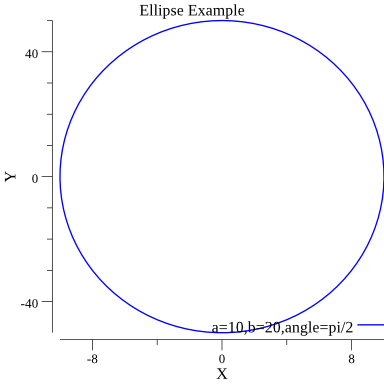
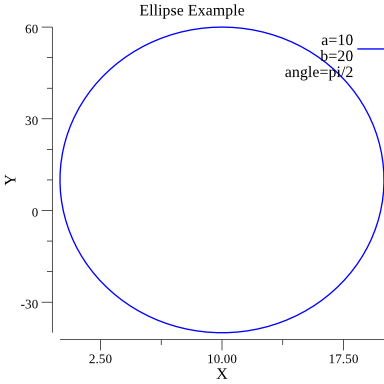
Made docs more explicit. Added Ellipse origin.

diff --git a/ellipse/ellipse.go b/ellipse/ellipse.go
@@ -13,37 +13,37 @@ import (
 )
 
 // Ellipse is 2D ellipse
+//
 // For more information see: https://en.wikipedia.org/wiki/Ellipse
 type Ellipse struct {
+	x     float64
+	y     float64
 	a     float64
 	b     float64
 	angle float64
-	xmean float64
-	ymean float64
 }
 
-// New creates new Ellipse with given distance of major and minor vertices from the origin rotated
-// around the orgin by given angle in radians. Origin in this case is meant [0,0].
-// It returns error if either of the vertex distances (a or b) are not positive.
-// Note, major/minor axis lengths are defined as distance of the ellipse vertices on major/minor axis.
-// For more information please see: https://en.wikipedia.org/wiki/Ellipse#Ellipse_in_Cartesian_coordinates
-// New, however, accepts distance of major/minor vertices from the Ellipse *center* a.k.a. semi-major/minor axis.
+// New creates new Ellipse with origin [x,y], length of major/minor axis (mx,my) and rotation angle radians.
+// It returns error if either of the axis (a or b).
+// Note: the lengths of major/minor axis are defined as a distance between the ellipse vertices on major/minor axis.
+// however, this function accepts semi-major/minor lengths from the Ellipse origin.
+//
 // For more information please see: https://en.wikipedia.org/wiki/Semi-major_and_semi-minor_axes
-func New(a, b, angle float64) (*Ellipse, error) {
+func New(x, y, a, b, angle float64) (*Ellipse, error) {
 	if a <= 0 || b <= 0 {
 		return nil, fmt.Errorf("Invald ellipse axis: (a: %.2f, b: %.2f)", a, b)
 	}
 
-	return &Ellipse{a: a, b: b, angle: angle, xmean: 0.0, ymean: 0.0}, nil
+	return &Ellipse{a: a, b: b, angle: angle, x: x, y: y}, nil
 }
 
-// NewWithConfidence creates new Ellipse from data m centered around data mean with confidence probability.
-// The suplied data is assumed to be from the Gaussian statistical distribution.
+// NewWithDataConfidence creates new Ellipse from data with origin being data mean and confidence probability.
+// The data is assumed to be of the Normal (a.k.a. Gaussian) distribution.
 // It panics if either of the folllowing happens:
 // * supplied data matrix is nil
 // * principal components could not be calculated from the supplied data
-// It returns error if the provided confidence value is not in (0,1> interval.
-func NewWithConfidence(data mat.Matrix, confidence float64) (*Ellipse, error) {
+// It returns error if confidence is not in (0,1> interval.
+func NewWithDataConfidence(data mat.Matrix, confidence float64) (*Ellipse, error) {
 	if confidence <= 0 || confidence > 1 {
 		return nil, fmt.Errorf("Invalid confidence level: %.2f", confidence)
 	}
@@ -80,10 +80,10 @@ func NewWithConfidence(data mat.Matrix, confidence float64) (*Ellipse, error) {
 	a := math.Sqrt(chi2.Quantile(confidence) * eigVals[0])
 	b := math.Sqrt(chi2.Quantile(confidence) * eigVals[1])
 
-	return &Ellipse{a: a, b: b, angle: angle, xmean: xmean, ymean: ymean}, nil
+	return &Ellipse{x: xmean, y: ymean, a: a, b: b, angle: angle}, nil
 }
 
-// LinePoints returns both Ellipse plotter.Line and plotter.Scatter points which can be used to plot Ellipse.
+// LinePoints returns both plotter.Line and plotter.Scatter which can be used to plot Ellipse.
 // It returns error if at least one of the ellipse data points contains a NaN or Infinity.
 func (e *Ellipse) LinePoints(size int) (*plotter.Line, *plotter.Scatter, error) {
 	// generate size number of ellipse points
@@ -118,8 +118,8 @@ func (e *Ellipse) LinePoints(size int) (*plotter.Line, *plotter.Scatter, error) 
 
 	// we need to shift ellipse points by data mean values
 	for i := range ellipseXYs {
-		ellipseXYs[i].X = ellipseXYs[i].X + e.xmean
-		ellipseXYs[i].Y = ellipseXYs[i].Y + e.ymean
+		ellipseXYs[i].X = ellipseXYs[i].X + e.x
+		ellipseXYs[i].Y = ellipseXYs[i].Y + e.y
 	}
 
 	return plotter.NewLinePoints(ellipseXYs)
@@ -132,7 +132,7 @@ func (e *Ellipse) Eccentricity() float64 {
 
 // String implements fmt.Stringer interface
 func (e *Ellipse) String() string {
-	return fmt.Sprintf("Ellipse{a: %.2f, b: %.2f, angle: %.2f}", e.a, e.b, e.angle)
+	return fmt.Sprintf("Ellipse{x: %.2f, y: %.2f, a: %.2f, b: %.2f, angle: %.2f}", e.x, e.y, e.a, e.b, e.angle)
 }
 
 // XYFromDense returns plotter.XYs from m, which stores X and Y coordinates in its 1st and 2nd column.

diff --git a/ellipse/ellipse_test.go b/ellipse/ellipse_test.go
@@ -12,19 +12,21 @@ func TestNewEllipse(t *testing.T) {
 	assert := assert.New(t)
 
 	testCases := []struct {
+		x     float64
+		y     float64
 		a     float64
 		b     float64
 		angle float64
 		err   bool
 	}{
-		{0, 1.0, 4.5, true},
-		{0, 0, 4.5, true},
-		{1.0, -10.0, 20.3, true},
-		{10.0, 10.0, -5.6, false},
+		{0, 0, 0, 1.0, 4.5, true},
+		{0, 0, 0, 0, 4.5, true},
+		{0, 0, 1.0, -10.0, 20.3, true},
+		{0, 0, 10.0, 10.0, -5.6, false},
 	}
 
 	for _, tc := range testCases {
-		ell, err := New(tc.a, tc.b, tc.angle)
+		ell, err := New(tc.x, tc.y, tc.a, tc.b, tc.angle)
 		if !tc.err {
 			assert.NoError(err)
 			assert.Equal(tc.a, ell.a)
@@ -50,7 +52,7 @@ func TestNewWithConfidence(t *testing.T) {
 	}
 
 	for _, tc := range testCases {
-		ell, err := NewWithConfidence(tc.m, tc.c)
+		ell, err := NewWithDataConfidence(tc.m, tc.c)
 		if !tc.err {
 			assert.NoError(err)
 			assert.NotNil(ell)
@@ -84,8 +86,8 @@ func TestEccentricity(t *testing.T) {
 func TestString(t *testing.T) {
 	assert := assert.New(t)
 
-	ell := Ellipse{a: 1.0, b: 3.0, angle: math.Pi}
-	exp := "Ellipse{a: 1.00, b: 3.00, angle: 3.14}"
+	ell := Ellipse{x: 0, y: 0, a: 1.0, b: 3.0, angle: math.Pi}
+	exp := "Ellipse{x: 0.00, y: 0.00, a: 1.00, b: 3.00, angle: 3.14}"
 
 	assert.Equal(exp, ell.String())
 }

diff --git a/examples/simple/simple.go b/examples/simple/simple.go
@@ -11,7 +11,7 @@ import (
 )
 
 func main() {
-	ell, err := ellipse.New(50, 10, math.Pi/2)
+	ell, err := ellipse.New(10, 10, 50, 10, math.Pi/2)
 	if err != nil {
 		log.Fatalf("Failed to create ellipse: %v", err)
 	}
@@ -25,6 +25,14 @@ func main() {
 	p.X.Label.Text = "X"
 	p.Y.Label.Text = "Y"
 
+	legend, err := plot.NewLegend()
+	if err != nil {
+		log.Fatalf("Failed to create new plot legend")
+	}
+	legend.Top = true
+
+	p.Legend = legend
+
 	// generate ellipse curve: we request 100 points
 	line, _, err := ell.LinePoints(100)
 	if err != nil {
@@ -34,10 +42,10 @@ func main() {
 	// ellipse line plot
 	line.Color = color.RGBA{B: 255, A: 255}
 	p.Add(line)
-	p.Legend.Add("a=10,b=20,angle=pi/2", line)
+	p.Legend.Add("a=10\nb=20\nangle=pi/2", line)
 
 	// Save the plot to a PNG file.
-	if err := p.Save(4*vg.Inch, 4*vg.Inch, "example.png"); err != nil {
+	if err := p.Save(4*vg.Inch, 4*vg.Inch, "simple.png"); err != nil {
 		log.Fatalf("Failed to plot ellipse: %v", err)
 	}
 }

diff --git a/examples/confidence/confidence.go b/examples/confidence/confidence.go
@@ -51,8 +51,6 @@ func main() {
 	xMean := stat.Mean(mat.Col(vals, 0, data), nil)
 	yMean := stat.Mean(mat.Col(vals, 1, data), nil)
 
-	fmt.Println("xMean:", xMean, "yMean:", yMean)
-
 	// plot mean values
 	var meanXYs plotter.XYs
 	meanVals := struct{ X, Y float64 }{xMean, yMean}
@@ -71,12 +69,10 @@ func main() {
 
 	// create new ellipse with 95% data confidence
 	confidence := 0.95
-	ell, err := ellipse.NewWithConfidence(data, confidence)
+	ell, err := ellipse.NewWithDataConfidence(data, confidence)
 	if err != nil {
 		log.Fatalf("Failed to create new ellipse: %v", err)
 	}
-
-	fmt.Println("Ellipse:", ell)
 
 	line, _, err := ell.LinePoints(size)
 	if err != nil {
